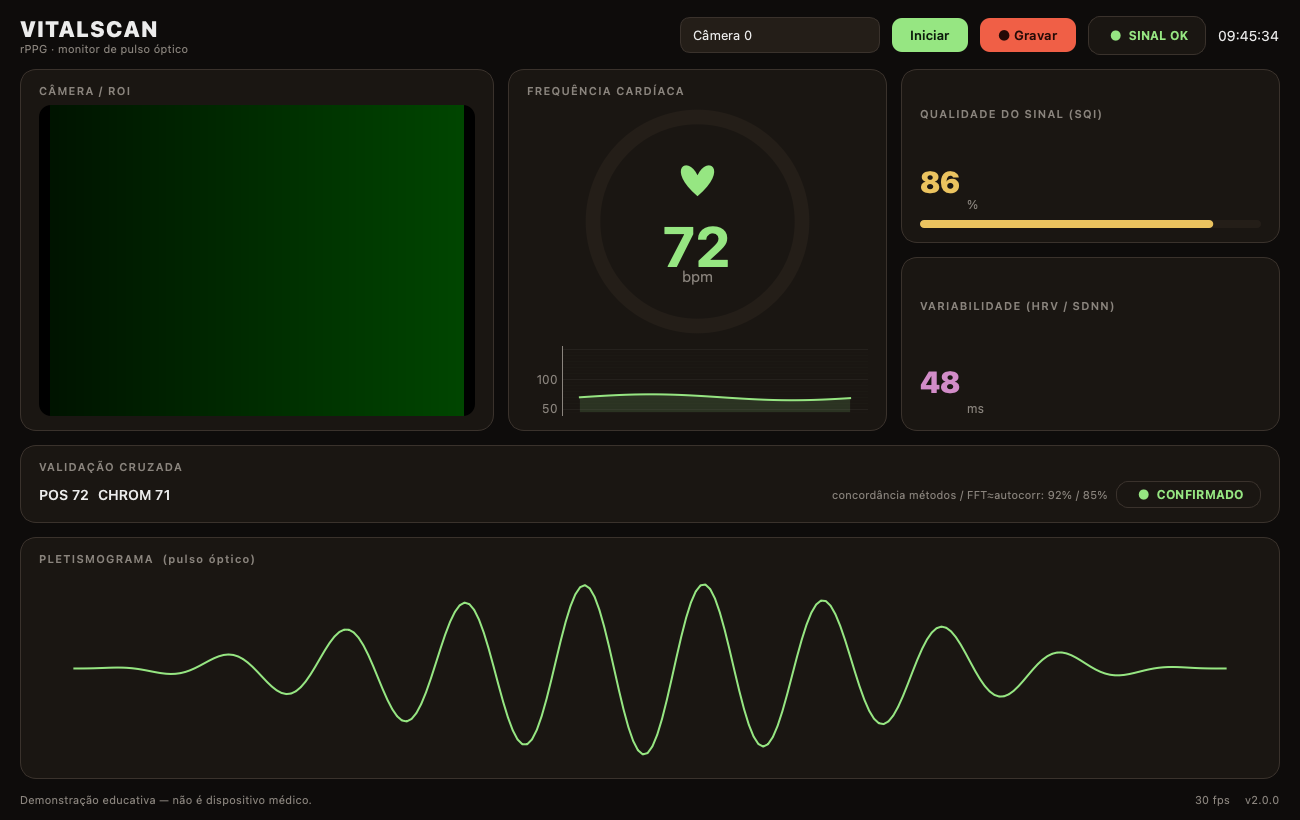
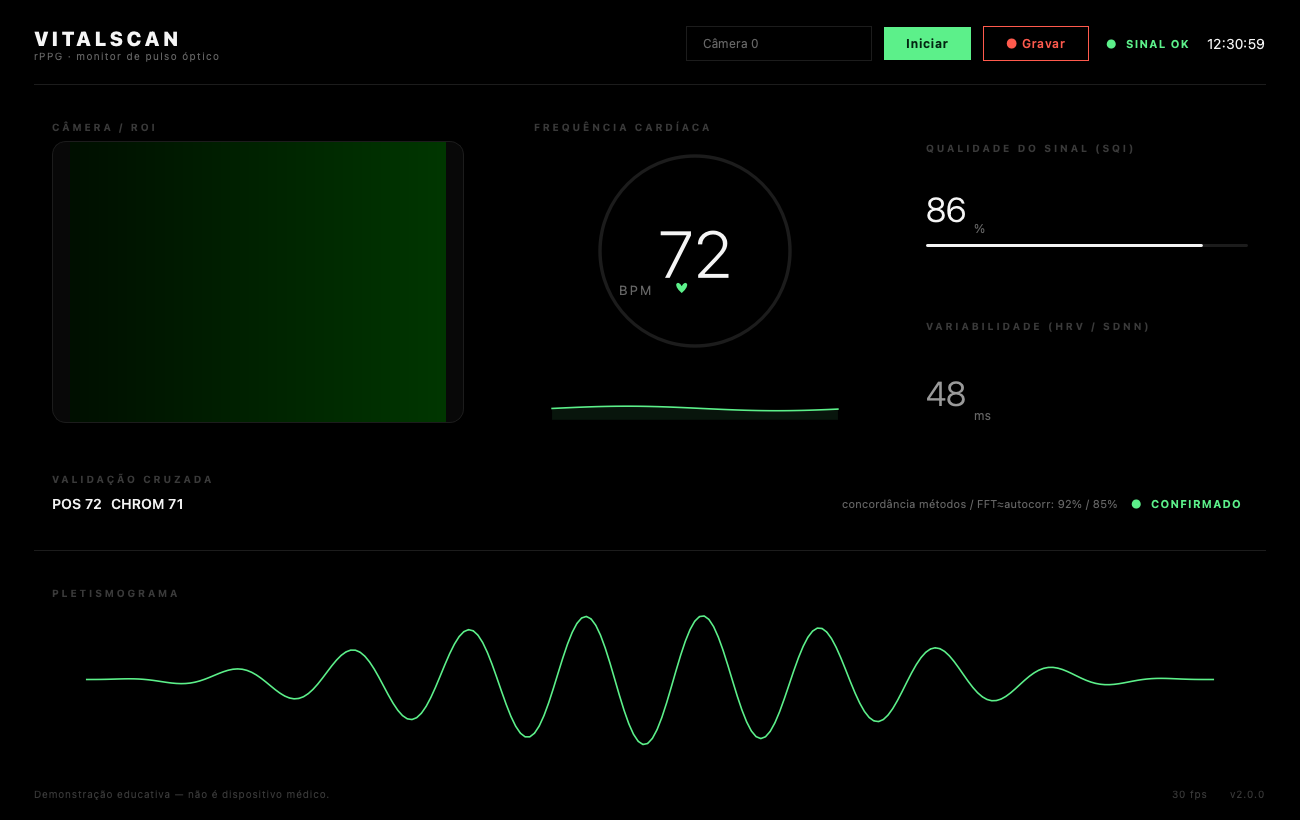
Redesign minimalista black da UI
- theme: preto puro, acento unico, botoes/combos fantasma, hairlines
- gauge: anel ultrafino, numero heroi leve, coracao + BPM na base
- plots sem grade/eixos, traco fino; barra SQI de 3px
- status sem moldura; video com hairline; layout com mais respiro

diff --git a/vitalscan/theme.py b/vitalscan/theme.py
@@ -1,17 +1,20 @@
-"""Paleta e folha de estilo (QSS) do VitalScan — tema escuro profissional."""
+"""Paleta e folha de estilo (QSS) do VitalScan — minimalista, black."""
 
-# Cores (hex) — coerentes com a identidade do dashboard original
-BG = "#0e0c0b"
-PANEL = "#1a1612"
-PANEL_HI = "#241e18"
-LINE = "#3a322c"
-TXT = "#ececec"
-MUT = "#8a847d"
+# Preto puro com elevações quase imperceptíveis
+BG = "#000000"
+PANEL = "#080808"        # elevação 1 (quase invisível)
+PANEL_HI = "#111111"     # elevação 2 (hover / trilhos)
+LINE = "#1c1c1c"         # hairline
+TXT = "#f5f5f5"
+MUT = "#666666"          # texto secundário discreto
+FAINT = "#3a3a3a"        # rótulos micro
 
-ACC = "#96e682"        # verde-menta  (HR)
-ACC_B = "#ebc35f"      # âmbar        (SQI)
-ACC_P = "#d28cc8"      # roxo         (HRV)
-WARN = "#f05f46"       # vermelho     (alarme)
+# Acento único — verde clínico, usado só para dado vivo
+ACC = "#5cf08a"
+ACC_DIM = "#1e3a28"
+WARN = "#ff5a4d"
+ACC_B = "#f5f5f5"        # SQI agora monocromático (white)
+ACC_P = "#9a9a9a"        # HRV monocromático (cinza)
 
 QSS = f"""
 * {{
@@ -21,77 +24,91 @@ QSS = f"""
 QMainWindow, QWidget#root {{
     background: {BG};
 }}
+
+/* Painéis sem moldura — separação por espaço, não por borda */
 QFrame#card {{
-    background: {PANEL};
-    border: 1px solid {LINE};
-    border-radius: 16px;
+    background: transparent;
+    border: none;
 }}
+
 QLabel#cardTitle {{
-    color: {MUT};
-    font-size: 11px;
-    font-weight: 600;
-    letter-spacing: 1px;
+    color: {FAINT};
+    font-size: 10px;
+    font-weight: 700;
+    letter-spacing: 2.5px;
 }}
 QLabel#brand {{
-    font-size: 22px;
+    font-size: 20px;
     font-weight: 800;
-    letter-spacing: 2px;
+    letter-spacing: 4px;
 }}
 QLabel#brandSub {{
     color: {MUT};
-    font-size: 11px;
+    font-size: 10px;
+    letter-spacing: 1px;
 }}
 QLabel#metricBig {{
-    font-size: 30px;
-    font-weight: 800;
+    font-size: 34px;
+    font-weight: 300;
 }}
 QLabel#metricUnit {{
     color: {MUT};
     font-size: 12px;
+    font-weight: 400;
 }}
 QLabel#footer {{
-    color: {MUT};
-    font-size: 11px;
+    color: {FAINT};
+    font-size: 10px;
+    letter-spacing: 0.5px;
 }}
+
+/* Botões fantasma — texto + hairline, sem preenchimento */
 QPushButton {{
-    background: {PANEL_HI};
+    background: transparent;
     border: 1px solid {LINE};
-    border-radius: 10px;
-    padding: 9px 18px;
-    font-size: 13px;
+    border-radius: 999px;
+    padding: 9px 22px;
+    font-size: 12px;
     font-weight: 600;
+    letter-spacing: 0.5px;
+    color: {TXT};
 }}
-QPushButton:hover {{ background: {LINE}; }}
-QPushButton:disabled {{ color: {MUT}; background: {PANEL}; }}
+QPushButton:hover {{ background: {PANEL_HI}; border-color: {MUT}; }}
+QPushButton:disabled {{ color: {FAINT}; border-color: {LINE}; }}
 QPushButton#primary {{
     background: {ACC};
-    color: #0c1a0c;
+    color: #032512;
     border: none;
+    font-weight: 700;
 }}
-QPushButton#primary:hover {{ background: #aef096; }}
+QPushButton#primary:hover {{ background: #7bf8a4; }}
 QPushButton#danger {{
-    background: {WARN};
-    color: #240a06;
-    border: none;
+    background: transparent;
+    color: {WARN};
+    border: 1px solid {WARN};
 }}
-QPushButton#danger:hover {{ background: #ff7359; }}
+QPushButton#danger:hover {{ background: rgba(255,90,77,0.10); }}
+
 QComboBox {{
-    background: {PANEL_HI};
+    background: transparent;
     border: 1px solid {LINE};
-    border-radius: 10px;
-    padding: 8px 12px;
-    font-size: 13px;
-    min-width: 150px;
+    border-radius: 999px;
+    padding: 8px 16px;
+    font-size: 12px;
+    color: {MUT};
+    min-width: 130px;
 }}
+QComboBox:hover {{ border-color: {MUT}; color: {TXT}; }}
 QComboBox QAbstractItemView {{
-    background: {PANEL_HI};
+    background: #0c0c0c;
     border: 1px solid {LINE};
-    selection-background-color: {LINE};
+    selection-background-color: {PANEL_HI};
     outline: none;
+    padding: 4px;
 }}
-QComboBox::drop-down {{ border: none; width: 22px; }}
+QComboBox::drop-down {{ border: none; width: 20px; }}
 QToolTip {{
-    background: {PANEL_HI};
+    background: #0c0c0c;
     color: {TXT};
     border: 1px solid {LINE};
     padding: 6px;

diff --git a/vitalscan/widgets.py b/vitalscan/widgets.py
@@ -13,7 +13,7 @@ from PyQt6.QtWidgets import (QFrame, QHBoxLayout, QLabel, QSizePolicy,
 
 from . import theme
 
-pg.setConfigOptions(antialias=True, background=theme.PANEL, foreground=theme.MUT)
+pg.setConfigOptions(antialias=True, background=theme.BG, foreground=theme.FAINT)
 
 
 def _qcolor(hexstr: str) -> QColor:
@@ -98,15 +98,15 @@ class HeartGauge(QWidget):
         p = QPainter(self)
         p.setRenderHint(QPainter.RenderHint.Antialiasing)
         w, h = self.width(), self.height()
-        side = min(w, h) - 24
+        side = min(w, h) - 30
         cx, cy = w / 2, h / 2
         rect = QRectF(cx - side / 2, cy - side / 2, side, side)
-        esp = max(10, side * 0.07)
+        esp = max(2.0, side * 0.018)          # anel fino, elegante
 
         cor = _qcolor(theme.ACC if self._ok else theme.MUT)
 
-        # trilho
-        pen = QPen(_qcolor(theme.PANEL_HI), esp, cap=Qt.PenCapStyle.RoundCap)
+        # trilho discreto
+        pen = QPen(_qcolor(theme.LINE), esp, cap=Qt.PenCapStyle.RoundCap)
         p.setPen(pen)
         p.drawArc(rect, 0, 360 * 16)
 
@@ -116,24 +116,28 @@ class HeartGauge(QWidget):
             p.setPen(pen)
             p.drawArc(rect, 90 * 16, int(-self._frac * 360 * 16))
 
-        # coração pulsante
-        scale = 1.0 + 0.18 * self._pulse
-        self._draw_heart(p, cx, cy - side * 0.18, side * 0.10 * scale, cor)
-
-        # valor
-        p.setPen(cor)
+        # valor — número herói, peso leve
+        p.setPen(_qcolor(theme.TXT if self._ok else theme.MUT))
         f = QFont()
-        f.setPointSizeF(side * 0.20)
-        f.setBold(True)
+        f.setPointSizeF(side * 0.26)
+        f.setWeight(QFont.Weight.Light)
         p.setFont(f)
         valor = f"{self._bpm:.0f}" if self._ok else "--"
-        p.drawText(QRectF(cx - side / 2, cy - side * 0.04, side, side * 0.34),
-                   Qt.AlignmentFlag.AlignHCenter | Qt.AlignmentFlag.AlignTop, valor)
+        p.drawText(QRectF(cx - side / 2, cy - side * 0.20, side, side * 0.42),
+                   Qt.AlignmentFlag.AlignCenter, valor)
+
+        # coração pulsante + "bpm" na base
+        scale = 1.0 + 0.22 * self._pulse
+        self._draw_heart(p, cx - side * 0.07, cy + side * 0.20,
+                         side * 0.035 * scale, cor)
         p.setPen(_qcolor(theme.MUT))
-        f2 = QFont(); f2.setPointSizeF(side * 0.055)
+        f2 = QFont(); f2.setPointSizeF(side * 0.05)
+        f2.setLetterSpacing(QFont.SpacingType.AbsoluteSpacing, 2.0)
         p.setFont(f2)
-        p.drawText(QRectF(cx - side / 2, cy + side * 0.22, side, side * 0.12),
-                   Qt.AlignmentFlag.AlignHCenter | Qt.AlignmentFlag.AlignTop, "bpm")
+        p.drawText(QRectF(cx - side / 2 + side * 0.10, cy + side * 0.155,
+                          side, side * 0.10),
+                   Qt.AlignmentFlag.AlignLeft | Qt.AlignmentFlag.AlignVCenter,
+                   "BPM")
         p.end()
 
     @staticmethod
@@ -182,7 +186,7 @@ class ProgressBar(QWidget):
         super().__init__()
         self._cor = cor
         self._frac = 0.0
-        self.setFixedHeight(8)
+        self.setFixedHeight(3)
 
     def set_frac(self, v):
         self._frac = float(np.clip(v, 0, 1))
@@ -193,10 +197,10 @@ class ProgressBar(QWidget):
         p.setRenderHint(QPainter.RenderHint.Antialiasing)
         r = self.rect()
         p.setPen(Qt.PenStyle.NoPen)
-        p.setBrush(_qcolor(theme.PANEL_HI))
-        p.drawRoundedRect(QRectF(r), 4, 4)
+        p.setBrush(_qcolor(theme.LINE))
+        p.drawRoundedRect(QRectF(r), 1.5, 1.5)
         p.setBrush(_qcolor(self._cor))
-        p.drawRoundedRect(QRectF(0, 0, r.width() * self._frac, r.height()), 4, 4)
+        p.drawRoundedRect(QRectF(0, 0, r.width() * self._frac, r.height()), 1.5, 1.5)
         p.end()
 
 
@@ -210,11 +214,10 @@ class StatusPill(QLabel):
         self.set_estado(texto, cor)
 
     def set_estado(self, texto: str, cor: str):
-        self.setText(f"  ●  {texto}")
+        self.setText(f"●  {texto}")
         self.setStyleSheet(
-            f"color: {cor}; font-size: 12px; font-weight: 700;"
-            f"background: {theme.PANEL}; border: 1px solid {theme.LINE};"
-            f"border-radius: 12px; padding: 5px 12px;")
+            f"color: {cor}; font-size: 11px; font-weight: 700;"
+            f"letter-spacing: 1px; background: transparent; padding: 4px 2px;")
 
 
 # --------------------------------------------------------------------------- #
@@ -229,8 +232,10 @@ class VideoView(QLabel):
                            QSizePolicy.Policy.Expanding)
         self.setAlignment(Qt.AlignmentFlag.AlignCenter)
         self.setStyleSheet(
-            f"background: #000; border-radius: 12px; color: {theme.MUT};")
-        self.setText("Câmera desligada")
+            f"background: {theme.PANEL}; border: 1px solid {theme.LINE};"
+            f"border-radius: 14px; color: {theme.FAINT}; font-size: 12px;"
+            f"letter-spacing: 1px;")
+        self.setText("CÂMERA DESLIGADA")
 
     def set_frame(self, rgb: np.ndarray):
         h, w, _ = rgb.shape
@@ -250,14 +255,13 @@ class WaveformPlot(pg.PlotWidget):
 
     def __init__(self):
         super().__init__()
-        self.setBackground(theme.PANEL)
-        self.showGrid(x=True, y=True, alpha=0.15)
+        self.setBackground(theme.BG)
         self.setMenuEnabled(False)
         self.setMouseEnabled(False, False)
         self.hideButtons()
         self.getPlotItem().hideAxis("left")
         self.getPlotItem().hideAxis("bottom")
-        self._curve = self.plot(pen=pg.mkPen(theme.ACC, width=2))
+        self._curve = self.plot(pen=pg.mkPen(theme.ACC, width=1.6))
 
     def set_sinal(self, sig: np.ndarray, ok: bool):
         if sig is None or len(sig) < 2:
@@ -267,7 +271,7 @@ class WaveformPlot(pg.PlotWidget):
         s = s - s.mean()
         amp = np.max(np.abs(s)) or 1.0
         cor = theme.ACC if ok else theme.WARN
-        self._curve.setPen(pg.mkPen(cor, width=2))
+        self._curve.setPen(pg.mkPen(cor, width=1.6))
         self._curve.setData(s / amp)
         self.setYRange(-1.1, 1.1, padding=0)
 
@@ -277,18 +281,16 @@ class TrendPlot(pg.PlotWidget):
 
     def __init__(self):
         super().__init__()
-        self.setBackground(theme.PANEL)
-        self.showGrid(x=False, y=True, alpha=0.12)
+        self.setBackground(theme.BG)
         self.setMenuEnabled(False)
         self.setMouseEnabled(False, False)
         self.hideButtons()
         self.getPlotItem().hideAxis("bottom")
-        ax = self.getAxis("left")
-        ax.setTextPen(theme.MUT)
+        self.getPlotItem().hideAxis("left")
         self.setYRange(45, 150)
         self._curve = self.plot(
-            pen=pg.mkPen(theme.ACC, width=2),
-            fillLevel=45, brush=pg.mkBrush(150, 230, 130, 35))
+            pen=pg.mkPen(theme.ACC, width=1.6),
+            fillLevel=45, brush=pg.mkBrush(92, 240, 138, 22))
 
     def set_hist(self, hist):
         if not hist:

diff --git a/vitalscan/main_window.py b/vitalscan/main_window.py
@@ -7,9 +7,9 @@ import time
 
 from PyQt6.QtCore import Qt, QTimer
 from PyQt6.QtGui import QKeySequence, QShortcut
-from PyQt6.QtWidgets import (QComboBox, QFileDialog, QGridLayout, QHBoxLayout,
-                             QLabel, QMainWindow, QMessageBox, QPushButton,
-                             QVBoxLayout, QWidget)
+from PyQt6.QtWidgets import (QComboBox, QFileDialog, QFrame, QGridLayout,
+                             QHBoxLayout, QLabel, QMainWindow, QMessageBox,
+                             QPushButton, QVBoxLayout, QWidget)
 
 from . import __app_name__, __version__, theme
 from .cameras import listar_cameras
@@ -40,13 +40,15 @@ class MainWindow(QMainWindow):
         root.setObjectName("root")
         self.setCentralWidget(root)
         outer = QVBoxLayout(root)
-        outer.setContentsMargins(20, 16, 20, 14)
-        outer.setSpacing(14)
+        outer.setContentsMargins(34, 26, 34, 20)
+        outer.setSpacing(22)
 
         outer.addLayout(self._build_header())
+        outer.addWidget(self._hairline())
 
         grid = QGridLayout()
-        grid.setSpacing(14)
+        grid.setHorizontalSpacing(34)
+        grid.setVerticalSpacing(22)
         grid.setColumnStretch(0, 5)
         grid.setColumnStretch(1, 4)
         grid.setColumnStretch(2, 4)
@@ -62,7 +64,7 @@ class MainWindow(QMainWindow):
         self.gauge = HeartGauge()
         hr_card.add(self.gauge)
         self.trend = TrendPlot()
-        self.trend.setFixedHeight(70)
+        self.trend.setFixedHeight(54)
         hr_card.add(self.trend)
         grid.addWidget(hr_card, 0, 1, 2, 1)
 
@@ -77,13 +79,20 @@ class MainWindow(QMainWindow):
 
         # validação (linha própria, fina) + pleth
         outer.addWidget(self.card_val)
+        outer.addWidget(self._hairline())
 
-        pleth_card = Card("PLETISMOGRAMA  (pulso óptico)")
+        pleth_card = Card("PLETISMOGRAMA")
         self.wave = WaveformPlot()
         pleth_card.add(self.wave)
         outer.addWidget(pleth_card, stretch=2)
 
         outer.addLayout(self._build_footer())
+
+    def _hairline(self):
+        ln = QFrame()
+        ln.setFixedHeight(1)
+        ln.setStyleSheet(f"background: {theme.LINE}; border: none;")
+        return ln
 
     def _build_header(self):
         h = QHBoxLayout()